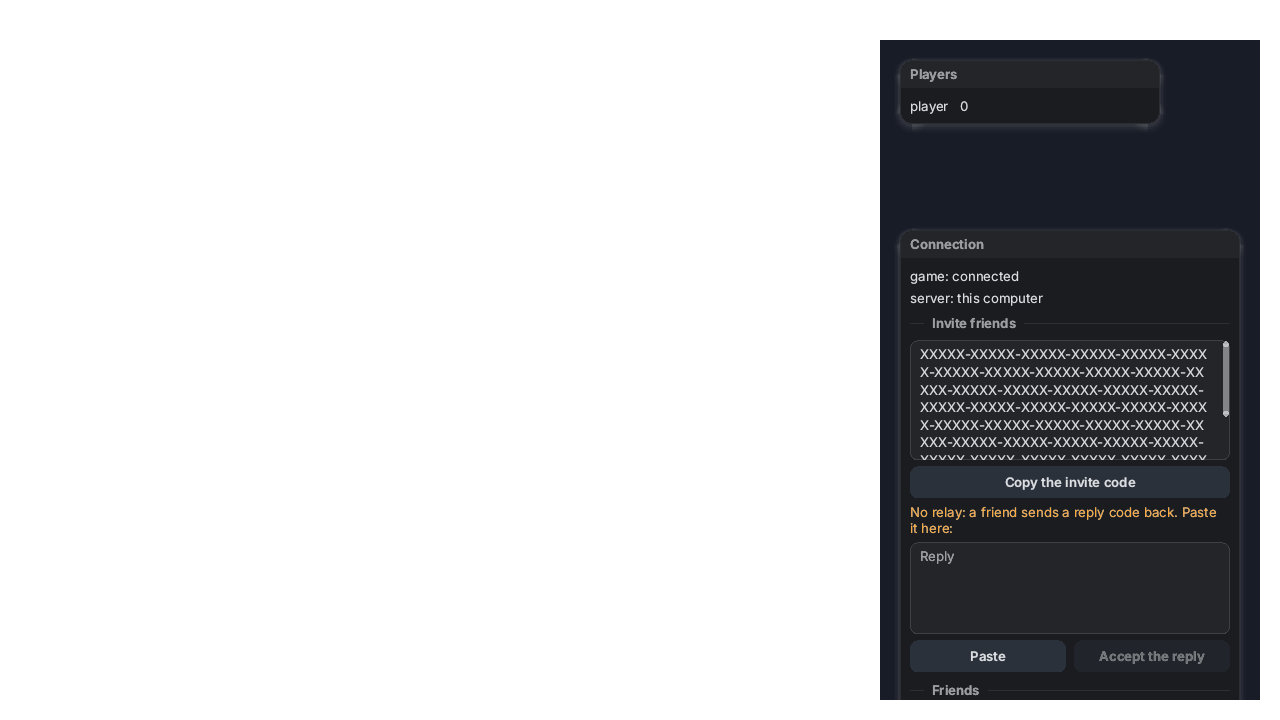
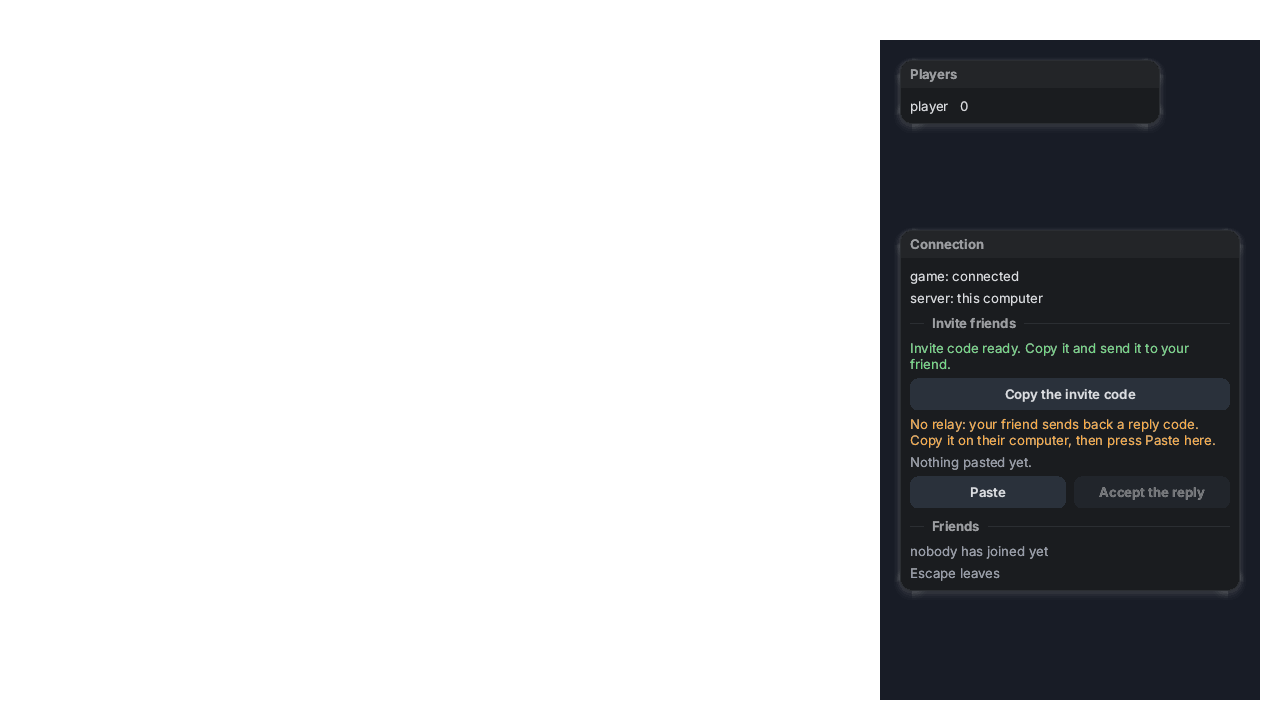
arena: codes are copied and pasted, never typed: colored labels tell the state
The text areas for codes are gone. A person presses Copy on one computer and Paste on the other; a colored label
says what was pasted (invite code of Ada, a room, a reply code of the wrong kind, not a code) and Connect or
Accept the reply work only for the right kind. After Accept the window shows Reply of X accepted, then Waiting for
X to connect... until the friend is connected, with a warning after 20 s. The guest sees Your reply code is ready
with a Copy button; the sign in wait screen no longer prints the address. session.CodeInspect reads a text without
using it (kind, who made it, relay) and is tested on synthetic codes, a changed or cut code, spaces and case;
HostConnectedGuests counts connected friends. The menu_refused picture is gone (Connect is disabled for a bad code);
labels never show the length of a code (it depends on the addresses of the computer). The script pastes and accepts
through the buttons.

Claude-Session: https://claude.ai/code/session_01VmEee8L8hufaEg5kRznT4c

diff --git a/spacetimedb/arena/AGENTS.md b/spacetimedb/arena/AGENTS.md
@@ -16,7 +16,7 @@ What is not obvious from the code. The rules for every library are in [../../AGE
 - The windows are made with the `ui` library (`screens.odin`: start screen, code form, connecting steps, Players and Connection windows; the field and the coins are kit drawing). `ui` names are ids: the Connection window is `CONNECTION_WINDOW` (`"Connection##connection"`), and the scripts find widgets with `aim(window, widget)` from the layout of the last frame (`script_menu.odin`), never by pixels. `UiLabelText` shows the value before the label: use `UiLabel` with a formatted text. A code has no spaces and cannot wrap: `cutCode`.
 - The session is staged and never blocks after the server started: `HostBegin`/`GuestBegin` then `HostUpdate`/`GuestUpdate` move `Stage` (GATHERING, RELAY, READY, CONNECTED); `HostStart`/`GuestJoin` are the same with a waiting loop (CLI, tests).
 - `captures/<backend>/start_screen.png` are the goldens of the start screen (`-define:DEMO_TEST=true -define:DEMO_CAPTURE=true`; the script sets the name to `player` so no user name is in the picture).
-- Window tests go through the tool, never `odin run demo_raylib -define:DEMO_TEST=true` by hand (that opens on whatever display is the default): `odin run demo_kit/tool/captures -- --karl2d spacetimedb/arena` puts the windows on the display of `demo_kit/monitor.txt` (BenQ), `-- --update` replaces the pictures. Nine pictures per backend: join_form, menu_refused, connecting, host_ready, host_with_friend, guest_playing, signin_providers, signin_waiting, signed_in; codes are masked (`config.mask_codes`) and the right panel is captured with `CaptureIn` (the field changes all the time).
+- Window tests go through the tool, never `odin run demo_raylib -define:DEMO_TEST=true` by hand (that opens on whatever display is the default): `odin run demo_kit/tool/captures -- --karl2d spacetimedb/arena` puts the windows on the display of `demo_kit/monitor.txt` (BenQ), `-- --update` replaces the pictures. Eight pictures per backend: join_form, connecting, host_ready, host_with_friend, guest_playing, signin_providers, signin_waiting, signed_in; the right panel is captured with `CaptureIn` (the field changes all the time).
 - p2p is used the way ai_messaging does: `include_loopback` always, the relay chosen with `DerpRace` before the gathering, the host waits for the relay before making the invite, and the events of the link are read every update (`linkEvents`: relay failed/switched/lost, friend joined/left, nobody answered) and shown as a notice in the Connection window.
 - `ServerStop` waits until the process has let go of its log file: a server started right after with the same log file used to fail silently (its redirection could not open the locked file) and the next `HostBegin` timed out.
 - Rooms (`HostOptions.room`, `HostRoom`, `GuestBeginRoom`): the host is the key `DerpChannelKey(name)` at the relay (`link.config.derp_private` before `LinkDerpBegin`), the room code is `name-<relay number>` because both sides must use the same relay; the guest `LinkDerpFind`s the key and gets the host's invite in `link.derp.found` (event `DERP_HOST_FOUND`). The name is the secret of the room. `looksLikeRoom` tells a room name from an invite code. Needs the internet: tested with `ARENA_LIVE=1`.
@@ -25,5 +25,5 @@ What is not obvious from the code. The rules for every library are in [../../AGE
 - The sign in is remembered (`signinSave`, `signinRestoreBegin`, `signinRestore` in `signin.odin`, `config.signin_store`) ONLY where `oidc.StoreAvailable()`: the refresh token goes, encrypted by the system (DPAPI, see oidc/README.md "What is stored"), to `oidc.StorePath("odin_utilities_arena")` after a login and whenever the provider rotates it (`signinKeepStored`, every update); the next start restores the account without the browser (phase SIGNING_IN with `signin.restoring`), Sign out deletes the file, a refused token deletes it and says so, an unreachable provider keeps it; where there is no protection the person is told that the next start asks again. The read buffers are wiped. The default path is set in `parseArguments` only when not `kit.DEMO_TEST`: a stored login of the person who runs the tests or the pictures must not change them; the script sets a path of its own (`arena_test_signin_store/`) and its stored-login checks pass trivially without a protection. Covered by `script_signin.odin`: written (the file shows no token, name or provider), restored after a restart (same identity, no browser, rotated token), sign out, revoked, offline, another client id, garbage file.
 - The identity of a signed in person is the same in every window and every game, so the module cannot assume one connection per identity: the player row has a `connection` column (the connection that joined last, `ctx.connection`), `join` takes the row over, and `identity_disconnected` removes the player only when the disconnecting connection is the owner. Before this, closing a window and joining again deleted the NEW player when the server noticed the old connection was gone (found by a person with two windows; `test_a_player_who_comes_back_is_not_removed_by_the_old_connection`). Changing the table means: rebuild the module (`odin run spacetimedb/tool/build_module -- spacetimedb/arena/module spacetimedb/bin/arena-odin.wasm`) and regenerate `schema/` (`odin run spacetimedb/arena/tool/schema`).
 - Every provider has its own store file (`signin_<provider>.txt`, `oidc.StoreVariant`): two windows signed in with different accounts do not replace each other's file; at the start the provider whose file was written last (`oidc.StoreModified`) is restored; Sign out and a refused token delete only the file of that provider; the single `signin.txt` of the first version is moved to the file of its provider (`signinMigrate`). Two windows with the SAME account share one file: a provider that rotates refresh tokens gives the token to the window that refreshes first, the other keeps using its ID token until the server asks for a new one.
-- Long codes are in text areas, not lines or cut labels: the invite code of the host and the reply code of a guest are READ ONLY `UiTextArea`s (`codeBox` in `screens.odin`: select, Ctrl+C, the Copy button too), the code of the join form and the reply of the host are editable areas (a reply is as long as an invite) and the host has a Paste button for the reply. The pictures mask codes with texts as long as real ones (330 and 190 characters). Typing into the invite changes nothing and the keys stay out of the game (`textFieldFocused`).
+- Codes are not shown and not edited: a person COPIES one (Copy the invite code, Copy the room name, Copy the reply code, Copy the address) and PASTES it on the other computer (Paste in the join form and in the Connection window). The window says what the pasted text is with a colored label (`pastedStatus`, from `session.CodeInspect`: EMPTY, NOT_A_CODE, INVITE, REPLY, ROOM; green = right, orange = something is needed, grey = waiting): Connect works only for an invite or a room, Accept the reply only for a reply; an invite pasted where a reply is wanted (and the other way round) says so. After Accept the window shows "Reply of X accepted", then "Waiting for X to connect... N s" until the friend is connected (`HostConnectedGuests`), and a warning after 20 s. The only text that is typed is the name. Labels never show the length of a code (it depends on the addresses of the computer and would make the pictures machine dependent). (`ui` still has long text, read only text areas and scrolling fields for programs that need them.)
 - The game notes when the server greeted it and when the first rows came (`Game.greeted_ms`, `synced_ms`, `GameWaitingMs`): the window shows "Joining the game" (not an empty field) while it waits, the console says `arena: connected after N ms, the first data after M ms`, and the Connection window warns when this window runs under 17 frames a second (the host serves the p2p link once per frame: a guest needs about six frames of the host, measured by `test_how_the_host_frame_rate_changes_the_time_to_the_field`: 150 ms at 60 fps, 1.5 s at 4 fps) or the first data took more than 2.5 s. A slow first sync of 5 to 10 s was reported by a person with two windows and could not be reproduced on loopback (anonymous: 100 to 150 ms): if it happens again, read that console line.

diff --git a/spacetimedb/arena/README.md b/spacetimedb/arena/README.md
@@ -38,3 +38,5 @@ What to try next: TODO.md.
 **Remembered:** after you sign in, the game keeps the refresh token of your account so that you sign in once. It is **encrypted by Windows** (DPAPI) before it is written to `%LOCALAPPDATA%\odin_utilities_arena\signin.txt`: the file is useless on another computer or under another account, and holds no readable token, name or provider. A program running as you on this computer can still ask Windows to decrypt it, like the saved passwords of a browser. On macOS and Linux nothing is kept yet and you sign in at every start (the Keychain and the Secret Service are not written). **Sign out** deletes the file; to end the session at the provider revoke the app in your account settings.
 
 You can run two windows on one computer, also with different accounts (one signed in with Discord, another with Google): each account has its own stored sign in, and the next start restores the one you used last. The same account in two windows is one player (the second window takes it over).
+
+**Codes are copied and pasted, never typed.** On the host press **Copy the invite code** (or **Copy the room name**), send it to your friend in any chat, and on the friend's computer press **Paste** in *Join a game*: a colored label says what was pasted (an invite code of Ada, a room, a reply code that is the wrong kind, or something that is not a code) and **Connect** works only for a right one. Without the relay the friend then sees **Copy the reply code**; the host presses **Paste** and **Accept the reply** in the Connection window and watches "Waiting for Friend to connect..." turn into the friend in the list.
